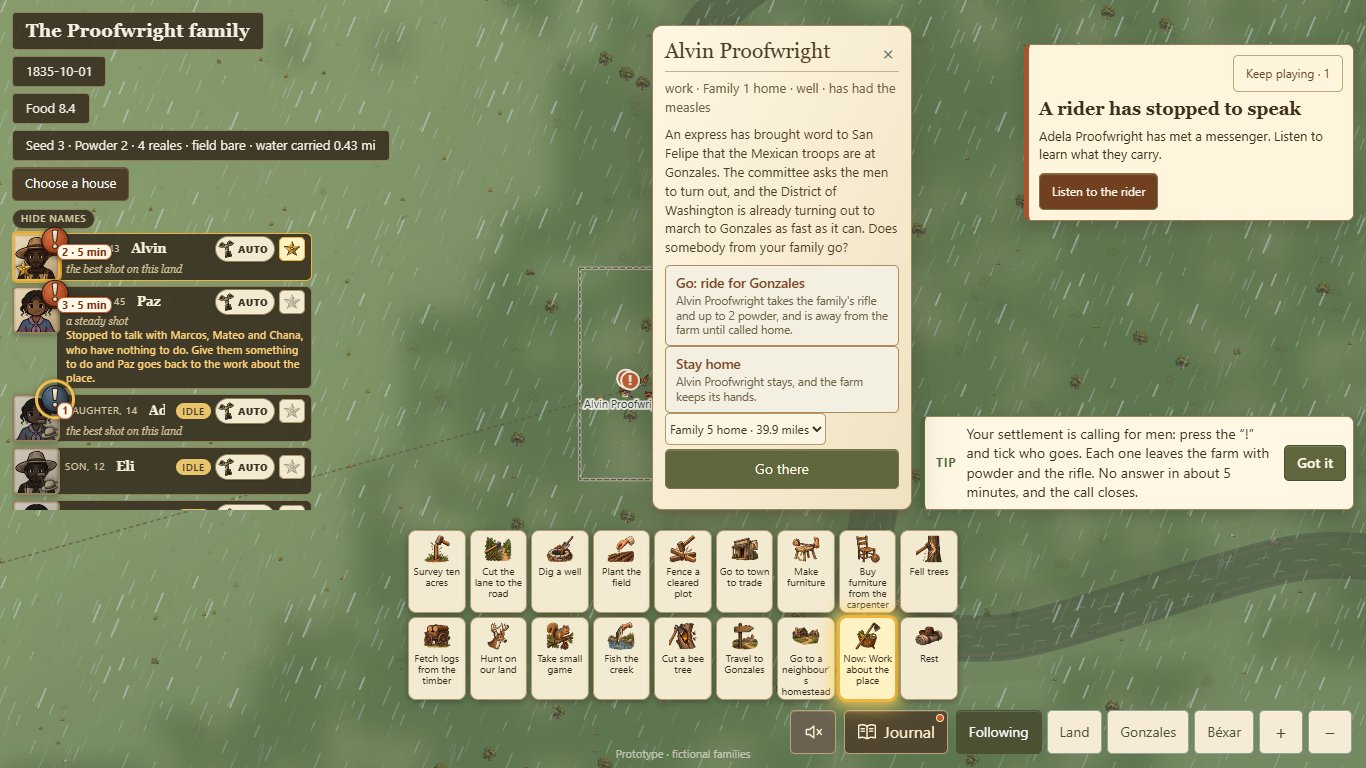
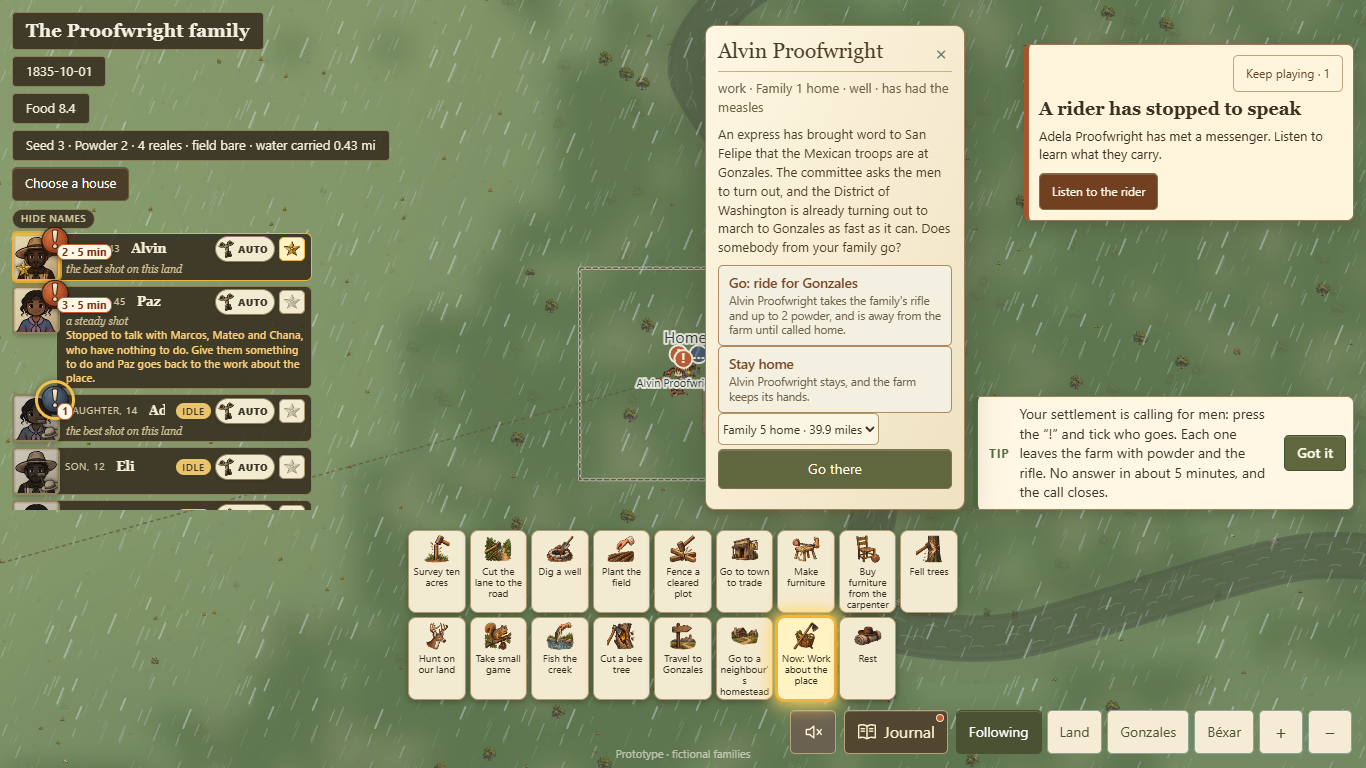
Tips are placed clear of an open popup, or wait behind it; the proof walks the house, the field and the town

diff --git a/public/app.js b/public/app.js
@@ -6264,6 +6264,8 @@ $('#military-go')?.addEventListener('click', async () => {
  * page (public/tips.js shows the Host nothing), so never on the projector.
  */
 let tipShowing = null, tipFamily = null, tipPutAway = new Set(), tipBottom = null;
+/** The popups a tip over the map is placed clear of, or waits behind (the errand is held in public/tips.js `tipToShow`). */
+const TIP_HELD_BY = ['#house-plan', '#house-plot', '#going', '#wagon-load', '#site-choose', '#survey-choose'];
 function renderTip(world, { hidden = false } = {}) {
   const panel = $('#tip'), inline = $('#errand-tip');
   if (!panel) return;
@@ -6288,7 +6290,15 @@ function renderTip(world, { hidden = false } = {}) {
     host.querySelector('.tip-words').textContent = TIPS[show] || '';
   }
   host.hidden = false;
-  if (host === panel) placeTip(panel);
+  if (host !== panel) return;
+  placeTip(panel);
+  // Never over a popup the student opened - the house plan, the house plot, how they go, the wagon, a place being chosen
+  // (owner, 2026-09-28: no tip may cover an open popup). Placed clear of them where there is room; where there is none it
+  // waits hidden, neither retired nor seen, and stands again when the popup closes.
+  const box = panel.getBoundingClientRect();
+  const covers = TIP_HELD_BY.map(selector => $(selector)).filter(one => one && !one.hidden && getComputedStyle(one).display !== 'none')
+    .map(one => one.getBoundingClientRect()).some(one => one.width > 1 && box.left < one.right && one.left < box.right && box.top < one.bottom && one.top < box.bottom);
+  if (covers) panel.hidden = true;
 }
 /**
  * The tip over the map stands above the action bar, clear of the family's column, centred in what is left - and above the
@@ -6296,7 +6306,7 @@ function renderTip(world, { hidden = false } = {}) {
  * rather than hidden under them. Where there is no room above one, it stays above the bar and the card stands over it: a
  * card the student opened outranks a tip.
  */
-const TIP_CLEAR_OF = ['#selection', '#call-menu', '#encounter', '#military-notice', '#lesson', '#lesson-resume', '#tutorial'];
+const TIP_CLEAR_OF = ['#selection', '#call-menu', '#encounter', '#military-notice', '#lesson', '#lesson-resume', '#tutorial', ...TIP_HELD_BY];
 function placeTip(panel) {
   const bar = document.querySelector('.panel-row[data-focused=true] .panel-icons');
   const barBox = bar ? bar.getBoundingClientRect() : null;
